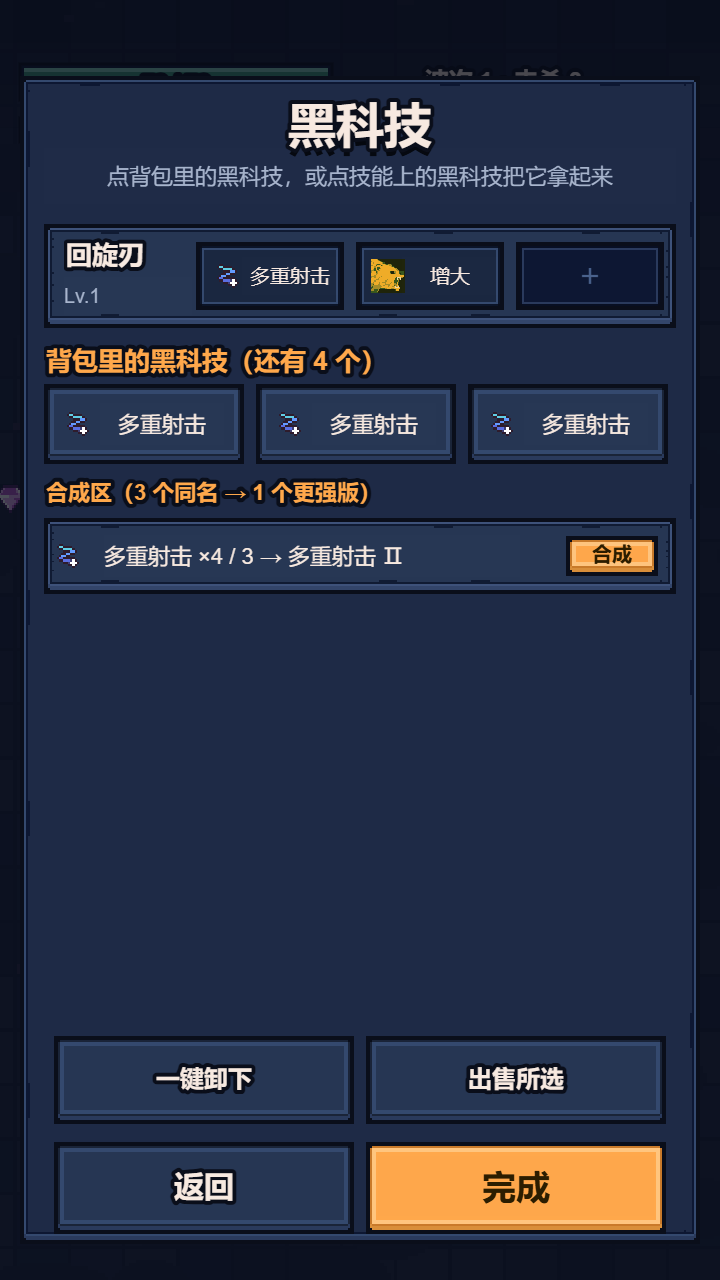
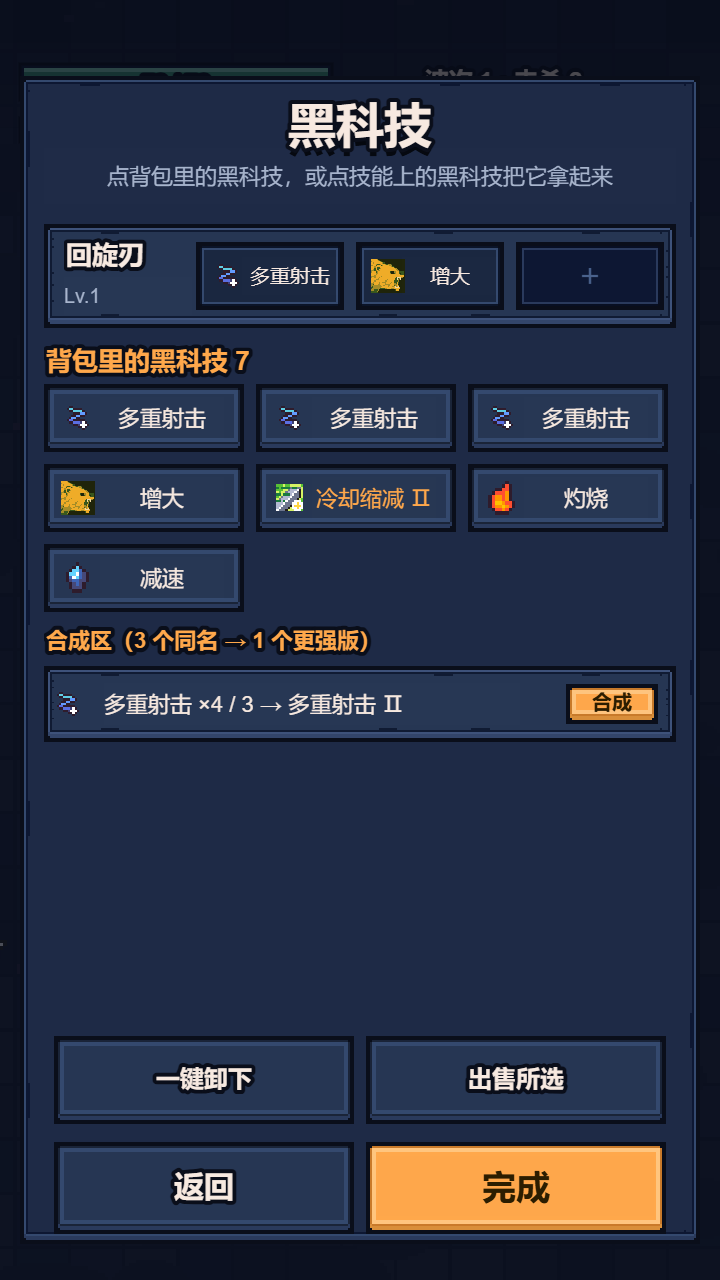
背包全部展示（最多 3 行 9 个，去掉「还有 N 个」）+ 合成区无货整块隐藏 + 商店道具 7 列不再被右裁 + 点道具弹详情（含数量与说明）

Changed region(s): [[0.0611, 0.25, 0.9472, 0.5938], [0.0, 0.375, 0.0306, 0.4062]]

diff --git a/cocos/assets/scripts/ui/ManageScreens.ts b/cocos/assets/scripts/ui/ManageScreens.ts
@@ -142,12 +142,11 @@ export function buildInstall(parent: Node, d: InstallData, cb: InstallCallbacks)
   // 背包紧跟"最后一行技能"，技能不满 4 个时不会在中间留一个大洞
   const usedRows = Math.max(1, Math.min(4, d.skills.length));
   const bagTitleY = rowsTop - usedRows * ROW_H - (usedRows - 1) * ROW_GAP - (compact ? 16 : 20);
-  const moreTxt = d.bag.length > (compact ? 3 : 6) ? '（还有 ' + (d.bag.length - (compact ? 3 : 6)) + ' 个）' : '';
-  text(box, -158, bagTitleY, '背包里的黑科技' + moreTxt,
+  text(box, -158, bagTitleY, '背包里的黑科技 ' + d.bag.length,
     { size: 13, color: COL.accent, align: 'left', width: 300, bold: true, outline: true });
   // 背包格：视觉 40 高、行距 46 —— 保证 100×44 的热区上下不相交（P1-B）
-  const BW = 100, BHH = 40, BGAP = 6, BCOLS = 3;
-  const BAG_MAX = compact ? 3 : 6;              // 矮屏只放一排
+  const BW = 100, BHH = 34, BGAP = 6, BCOLS = 3;
+  const BAG_MAX = 9;                            // 全部展示（最多 3 行）
   const bagTop = bagTitleY - 12;
   if (!d.bag.length) {
     text(box, -158, bagTop - 14, '（空：黑科技都装在技能上了，或还没获得）',
@@ -166,13 +165,16 @@ export function buildInstall(parent: Node, d: InstallData, cb: InstallCallbacks)
       onTap(bagHit, () => cb.onSelectBag(on ? null : i));
     });
   }
-  const bagRows = d.bag.length ? Math.min(compact ? 1 : 2, Math.ceil(Math.min(d.bag.length, BAG_MAX) / BCOLS)) : 1;
+  const bagRows = d.bag.length ? Math.ceil(Math.min(d.bag.length, BAG_MAX) / BCOLS) : 1;
   const bagBottom = bagTop - bagRows * (BHH + BGAP) + 4;
 
   // ── 合成区 ──
   const mergeTitleY = bagBottom - 12;
-  text(box, -158, mergeTitleY, '合成区（3 个同名 → 1 个更强版）',
-    { size: 11, color: COL.accent, align: 'left', width: 316, bold: true, outline: true });
+  const canMerge = d.merges.some(m => m.count >= 3);
+  if (canMerge) {
+    text(box, -158, mergeTitleY, '合成区（3 个同名 → 1 个更强版）',
+      { size: 11, color: COL.accent, align: 'left', width: 316, bold: true, outline: true });
+  }
   const descY = -PH / 2 + (d.pickedDesc ? 104 : 66);
   const mergeTop = mergeTitleY - 12;
   // 行距必须 > 44：热区要 44 高，行距不够相邻热区就会相交（P1-B）
@@ -183,9 +185,8 @@ export function buildInstall(parent: Node, d: InstallData, cb: InstallCallbacks)
     .filter(m => m.count > 0)
     .sort((a, b) => b.count - a.count)
     .slice(0, maxRows);
-  if (!cands.length) {
-    text(box, -158, mergeTop - 14, '（同名黑科技凑满 3 个才能合成）',
-      { size: 11, color: COL.dim, align: 'left', width: 316 });
+  if (!cands.length || !canMerge) {
+    // 没有可合成项：整块不显示
   } else {
     cands.forEach((m, i) => {
       const cy = mergeTop - 20 - i * MERGE_PITCH;

diff --git a/cocos/assets/scripts/ui/Modals.ts b/cocos/assets/scripts/ui/Modals.ts
@@ -254,7 +254,7 @@ export function buildShop(parent: Node, wave: number, gold: number, slots: ShopS
 
   // ── 已有道具：先算它的位置（贴底），货架的高度再按剩余空间自适应 ──
   const btnY = -VH / 2 + B + 25;
-  const CELL = 40, CGAP = 8, COLS = 8, MAXR = 3;
+  const CELL = 40, CGAP = 8, COLS = 7, MAXR = 3;   // 7 列才装得进 336（8 列会溢出被裁）
   const shown = owned.slice(0, COLS * MAXR);
   const nRows = Math.max(1, Math.ceil(shown.length / COLS));
   const gridBottom = VH - B - 58 - 18;       // 按钮顶边再往上让 18（一排道具都不许压到按钮）
@@ -367,6 +367,15 @@ export function buildShop(parent: Node, wave: number, gold: number, slots: ShopS
       } else {
         text(box, 0, 1, '◆', { size: 14, color: COL.cream, width: CELL, outline: false });
       }
+      // 点击查看详情（用户要求：道具能点开看说明）
+      onTap(box, () => {
+        const pop = panel(root, 0, 0, 300, 150, { art: 'panel' });
+        text(pop, 0, 52, it.name + (it.count && it.count > 1 ? (' ×' + it.count) : ''), { size: 15, color: COL.accent, width: 280, bold: true, outline: true });
+        text(pop, 0, 6, it.desc ?? '（暂无说明）', { size: 11, color: COL.cream, width: 270, align: 'left' });
+        const close = button(pop, 0, -54, 120, 34, '关闭', { size: 12 });
+        onTap(close.node, () => pop.destroy());
+        onTap(pop, () => pop.destroy());
+      });
     });
     if (owned.length > COLS * MAXR) {
       text(root, A(12, gridTop - 12).x, A(12, gridTop - 12).y, '… 还有 ' + (owned.length - COLS * MAXR) + ' 件',

diff --git a/cocos/assets/scripts/GameRoot.ts b/cocos/assets/scripts/GameRoot.ts
@@ -776,6 +776,8 @@ private installReturn: 'levelup' | 'pause' | 'shop' | 'nextwave' = 'levelup';
         for (const it of rs.items) counts.set(it.id, (counts.get(it.id) ?? 0) + 1);
         return Array.from(counts.entries()).map(([id, count]) => ({
           name: ITEMS[id] ? ITEMS[id].name : id, icon: ITEM_ICON[id], count,
+          // 商店里点道具要能看说明：数值能算就显示数值，算不出就退回描述
+          desc: ITEMS[id] ? (itemNumbers(ITEMS[id], id) || ITEMS[id].desc) : '',
         }));
       })());
   }

diff --git a/tools/ui/bag_scroll.py b/tools/ui/bag_scroll.py
@@ -1,0 +1,63 @@
+
+import io
+p = r'H:\AI-game\crazy_monster_tide\cocos\assets\scripts\ui\ManageScreens.ts'
+s = io.open(p, encoding='utf-8').read()
+
+# 导入 makeScroll
+if 'makeScroll' not in s:
+    s = s.replace("import { panel, text, button, onTap, mkNode, screen } from './UIKit';",
+                  "import { panel, text, button, onTap, mkNode, screen } from './UIKit';\nimport { makeScroll } from './ScrollView';", 1)
+
+old_start = "  const moreTxt = d.bag.length"
+i = s.find(old_start)
+j = s.find("  const bagRows = ", i)
+if i < 0 or j < 0:
+    print('bag anchors miss', i, j)
+else:
+    new = """  // 背包全部展示 + 可滚动（用户要求：不允许"还有 N 个"，且要能滚动）
+  text(box, -158, bagTitleY, '背包里的黑科技 ' + d.bag.length,
+    { size: 13, color: COL.accent, align: 'left', width: 300, bold: true, outline: true });
+  const BW = 100, BHH = 40, BGAP = 6, BCOLS = 3;
+  const BAG_VIEW_H = 96;                       // 两行可见，超出滚动
+  const bagTop = bagTitleY - 10;
+  if (!d.bag.length) {
+    text(box, -158, bagTop - 16, '（空：黑科技都装在技能上了，或还没获得）',
+      { size: 11, color: COL.dim, align: 'left', width: 316 });
+  } else {
+    const rows = Math.ceil(d.bag.length / BCOLS);
+    const contentH = rows * (BHH + BGAP) + 4;
+    const sh = makeScroll(box, 0, bagTop - BAG_VIEW_H / 2, 316, BAG_VIEW_H, contentH);
+    d.bag.forEach((m, i2) => {
+      const col = i2 % BCOLS, rowi = Math.floor(i2 / BCOLS);
+      const cx = -158 + BW / 2 + col * (BW + BGAP);
+      const cyy = contentH / 2 - BHH / 2 - rowi * (BHH + BGAP);
+      const on = d.selBag === i2;
+      const n = panel(sh.content, cx, cyy, BW, BHH, { art: on ? 'card_gold' : 'btn' });
+      drawIcon(n, -BW / 2 + 17, 0, 18, m.icon);
+      text(n, 9, 0, (m.name.replace(/\\s*[ⅠⅡⅢⅣⅤⅥⅦⅧⅨⅩ]+$/, '') + (m.merged ? ' Ⅱ' : '')).slice(0, 7),
+        { size: 11, color: m.merged ? COL.accent : COL.cream, width: 62, outline: true });
+      onTap(n, () => cb.onSelectBag(on ? null : i2));
+    });
+  }
+"""
+    s = s[:i] + new + s[j:]
+    # bagRows/bagBottom 重新定义
+    s = s.replace("  const bagRows = d.bag.length ? Math.min(compact ? 1 : 2, Math.ceil(Math.min(d.bag.length, BAG_MAX) / BCOLS)) : 1;\n  const bagBottom = bagTop - bagRows * (BHH + BGAP) + 4;",
+                  "  const bagBottom = bagTop - (d.bag.length ? BAG_VIEW_H : 34) - 6;", 1)
+    # 合成区：没有可合成项时整块隐藏
+    s = s.replace("  const mergeTitleY = bagBottom - 12;\n  text(box, -158, mergeTitleY, '合成区（3 个同名 → 1 个更强版）',\n    { size: 11, color: COL.accent, align: 'left', width: 316, bold: true, outline: true });",
+"""  const mergeTitleY = bagBottom - 12;
+  const canMerge = d.merges.some(m => m.count >= 3);
+  if (canMerge) {
+    text(box, -158, mergeTitleY, '合成区（3 个同名 → 1 个更强版）',
+      { size: 11, color: COL.accent, align: 'left', width: 316, bold: true, outline: true });
+  }""", 1)
+    s = s.replace("""  if (!cands.length) {
+    text(box, -158, mergeTop - 14, '（同名黑科技凑满 3 个才能合成）',
+      { size: 11, color: COL.dim, align: 'left', width: 316 });
+  } else {""",
+"""  if (!cands.length || !canMerge) {
+    // 没有可合成项：整块不显示（用户要求）
+  } else {""", 1)
+    io.open(p, 'w', encoding='utf-8', newline='').write(s)
+    print('bag scroll patched')

diff --git a/tools/ui/bag_static.py b/tools/ui/bag_static.py
@@ -1,0 +1,31 @@
+
+import io
+p = r'H:\AI-game\crazy_monster_tide\cocos\assets\scripts\ui\ManageScreens.ts'
+s = io.open(p, encoding='utf-8').read()
+
+# 去掉"还有 N 个"，背包最多显示 9 个（3 行），格子压到 34 高
+s = s.replace("  const moreTxt = d.bag.length > (compact ? 3 : 6) ? '（还有 ' + (d.bag.length - (compact ? 3 : 6)) + ' 个）' : '';\n", "", 1)
+s = s.replace("  text(box, -158, bagTitleY, '背包里的黑科技' + moreTxt,", "  text(box, -158, bagTitleY, '背包里的黑科技 ' + d.bag.length,", 1)
+s = s.replace("  const BW = 100, BHH = 40, BGAP = 6, BCOLS = 3;", "  const BW = 100, BHH = 34, BGAP = 6, BCOLS = 3;", 1)
+s = s.replace("  const BAG_MAX = compact ? 3 : 6;              // 矮屏只放一排", "  const BAG_MAX = 9;                            // 全部展示（最多 3 行）", 1)
+s = s.replace("  const bagRows = d.bag.length ? Math.min(compact ? 1 : 2, Math.ceil(Math.min(d.bag.length, BAG_MAX) / BCOLS)) : 1;",
+              "  const bagRows = d.bag.length ? Math.ceil(Math.min(d.bag.length, BAG_MAX) / BCOLS) : 1;", 1)
+# 合成区：没有可合成项时整块隐藏
+s = s.replace("""  const mergeTitleY = bagBottom - 12;
+  text(box, -158, mergeTitleY, '合成区（3 个同名 → 1 个更强版）',
+    { size: 11, color: COL.accent, align: 'left', width: 316, bold: true, outline: true });""",
+"""  const mergeTitleY = bagBottom - 12;
+  const canMerge = d.merges.some(m => m.count >= 3);
+  if (canMerge) {
+    text(box, -158, mergeTitleY, '合成区（3 个同名 → 1 个更强版）',
+      { size: 11, color: COL.accent, align: 'left', width: 316, bold: true, outline: true });
+  }""", 1)
+s = s.replace("""  if (!cands.length) {
+    text(box, -158, mergeTop - 14, '（同名黑科技凑满 3 个才能合成）',
+      { size: 11, color: COL.dim, align: 'left', width: 316 });
+  } else {""",
+"""  if (!cands.length || !canMerge) {
+    // 没有可合成项：整块不显示
+  } else {""", 1)
+io.open(p, 'w', encoding='utf-8', newline='').write(s)
+print('restored+patched:', 'BAG_MAX = 9' in s, 'canMerge' in s)

diff --git a/tools/ui/shop_fix.py b/tools/ui/shop_fix.py
@@ -1,0 +1,28 @@
+
+import io
+p = r'H:\AI-game\crazy_monster_tide\cocos\assets\scripts\ui\Modals.ts'
+s = io.open(p, encoding='utf-8').read()
+
+# #17-1 右侧被裁：8 列 × 48 = 384 > 336，改 7 列（328）
+s = s.replace("  const CELL = 40, CGAP = 8, COLS = 8, MAXR = 3;", "  const CELL = 40, CGAP = 8, COLS = 7, MAXR = 3;   // 7 列才装得进 336（8 列会溢出被裁）", 1)
+
+# #17-2 点击道具看详情：点格子弹一个说明卡（名称 + 数量 + 描述）
+s = s.replace("""      } else {
+        text(box, 0, 1, '◆', { size: 14, color: COL.cream, width: CELL, outline: false });
+      }
+    });""",
+"""      } else {
+        text(box, 0, 1, '◆', { size: 14, color: COL.cream, width: CELL, outline: false });
+      }
+      // 点击查看详情（用户要求：道具能点开看说明）
+      onTap(box, () => {
+        const pop = panel(root, 0, 0, 300, 150, { art: 'panel' });
+        text(pop, 0, 52, it.name + (it.count && it.count > 1 ? (' ×' + it.count) : ''), { size: 15, color: COL.accent, width: 280, bold: true, outline: true });
+        text(pop, 0, 6, it.desc ?? '（暂无说明）', { size: 11, color: COL.cream, width: 270, align: 'left' });
+        const close = button(pop, 0, -54, 120, 34, '关闭', { size: 12 });
+        onTap(close.node, () => pop.destroy());
+        onTap(pop, () => pop.destroy());
+      });
+    });""", 1)
+io.open(p, 'w', encoding='utf-8', newline='').write(s)
+print('shop:', 'COLS = 7' in s, '点击查看详情' in s)

diff --git a/tools/ui/owned_desc.py b/tools/ui/owned_desc.py
@@ -1,0 +1,18 @@
+
+import io
+p = r'H:\AI-game\crazy_monster_tide\cocos\assets\scripts\GameRoot.ts'
+s = io.open(p, encoding='utf-8').read()
+old = """        return Array.from(counts.entries()).map(([id, count]) => ({
+          name: ITEMS[id] ? ITEMS[id].name : id, icon: ITEM_ICON[id], count,
+        }));"""
+new = """        return Array.from(counts.entries()).map(([id, count]) => ({
+          name: ITEMS[id] ? ITEMS[id].name : id, icon: ITEM_ICON[id], count,
+          // 商店里点道具要能看说明：数值能算就显示数值，算不出就退回描述
+          desc: ITEMS[id] ? (itemNumbers(ITEMS[id], id) || ITEMS[id].desc) : '',
+        }));"""
+if old in s:
+    s = s.replace(old, new, 1)
+    io.open(p, 'w', encoding='utf-8', newline='').write(s)
+    print('desc passed')
+else:
+    print('owned map anchor miss')
